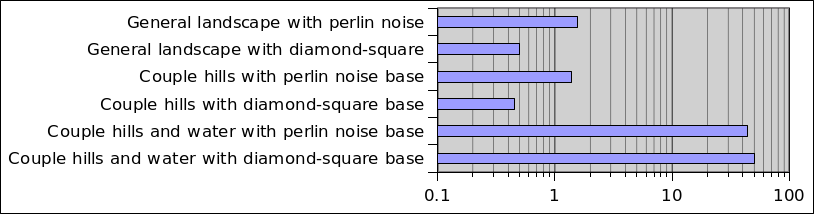
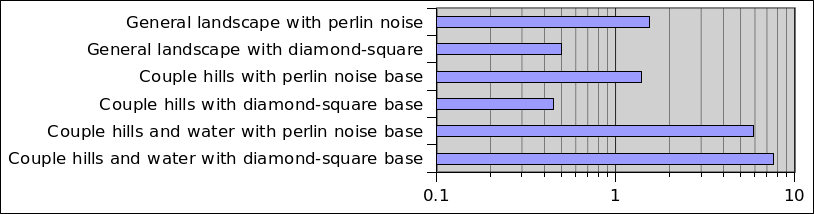
Update documentation after optimization.

diff --git a/documentation/implementation.md b/documentation/implementation.md
@@ -19,10 +19,10 @@ When generating terrains with the perlin noise, multiple passes of different "oc
 For the primary goal the 3d terrain view is the bottleneck, it seems like the culprit is the JavaFX 3d system as updating even a single value in the terrain data (be it in the beginning or the end) causes a delay that is as long as the initial creation of the 3d terrain. The user experience could be improved with the current system by keeping the 3d terrain view in small chunks, and then update the chunks over time with delays, that way the user would see slow update but the user interface would not completely stall for the duration of the update. However that would increase the total time needed for each update, and in order to fully fix the very slow updates the JavaFX 3d system would need to be changed to something else, the [Lightweight Java Game Library](https://www.lwjgl.org/) would probably be a good choice. Switching to LWJGL might also require switching away from JavaFX.
 
 ### Secondary goal
-With the secondary goal, the terrain generation with the example cases varies between 0.5 and 1.5 seconds (again ignoring the very slow water adding system). In the worst case scenario, the maximum number of terrains needed is five, which brings the total time up to about 7.5 seconds. The size of those terrains are about 500x500, and assuming one unit is one meter, they cover about 500 meters in one direction. The maximum (5) number of terrains is needed when the player moves diagonally, which is about 1.4*500=700 meters. Thus if the players maximum speed is approximately 700m/7.5s=93 meters per second, the terrain generation is fast enough.
+With the secondary goal, the terrain generation with the example cases varies between 0.5 and 1.5 seconds if the water adding system is ignored. In the worst case scenario, the maximum number of terrains needed is five, which brings the total time up to about 7.5 seconds. The size of those terrains are about 500x500, and assuming one unit is one meter, they cover about 500 meters in one direction. The maximum (5) number of terrains is needed when the player moves diagonally, which is about 1.4*500=700 meters. Thus if the players maximum speed is approximately 700m/7.5s=93 meters per second (335km/h), the terrain generation is fast enough. With the water adding system mixed in, the players maximum speed can be 700m/38.s=18 meters per second (65km/h), and is not fast enough for all uses (for example fast vehicles).
 
 ### User interface
-The graphical user interface is very bare bones, and would greatly benefit from proper user interface elements instead of the stdin/stdout style console. More user friendly commands should also be created, with good default values and combinations of tools. Also the ability to point and click on the terrain to position the wanted effect would help users a lot. Nice advanced user interface is not part of the course, so it was deliberately left on low priority.
+The graphical user interface is very bare bones, and would greatly benefit from proper user interface elements instead of the stdin/stdout style console. More user friendly commands should also be created, with good default values and combinations of tools. Also the ability to point and click on the terrain to position the wanted effect would help users a lot. The 3d terrain view should set the normals for smoother view, but the edges of the tiles can be seen more clearly without the normals, so this would probably need to be an option for the user to toggle. Nice advanced user interface is not part of the course, so it was deliberately left on low priority.
 
 ### Other
 The sheet erosion and water adding tools are currently the only tools that emulates some kind of physics. It would be interesting to add more tools that mimic physics in some way. For example there could be more different types of erosions: wind erosion, water erosion (from the rivers), and shoreline erosion (lakes and sea).

diff --git a/documentation/performance.md b/documentation/performance.md
@@ -32,7 +32,7 @@ echo "run scripts/perf-large.txt" | mvn compile exec:java -Dexec.args="--timing 
   <tr><td>add random soil</td>                  <td>0.070387s</td></tr>
   <tr><td>add soil - circle</td>                <td>0.023363s</td></tr>
   <tr><td>add soil - rectangle</td>             <td>0.120971s</td></tr>
-  <tr><td>add water</td>                        <td>26.747692s</td></tr>
+  <tr><td>add water</td>                        <td>2.485424s</td></tr>
   <tr><td>diamond-square</td>                   <td>0.126948s</td></tr>
   <tr><td>gaussian hill</td>                    <td>0.064253s</td></tr>
   <tr><td>insert soil at bottom - circle</td>   <td>0.025869s</td></tr>
@@ -63,8 +63,8 @@ echo "run scripts/perf-small.txt" | mvn compile exec:java -Dexec.args="--timing 
   <tr><td>General landscape with diamond-square</td> <td>0.500796s</td></tr>
   <tr><td>Couple hills with perlin noise base</td> <td>1.389787s</td></tr>
   <tr><td>Couple hills with diamond-square base</td> <td>0.45171s</td></tr>
-  <tr><td>Couple hills and water with perlin noise base</td> <td>43.961907s</td></tr>
-  <tr><td>Couple hills and water with diamond-square base</td> <td>50.062579s</td></tr>
+  <tr><td>Couple hills and water with perlin noise base</td> <td>5.879849s</td></tr>
+  <tr><td>Couple hills and water with diamond-square base</td> <td>7.638568s</td></tr>
 </table>
 
 ![Time taken, logarithmic scale](perf-small.png)
